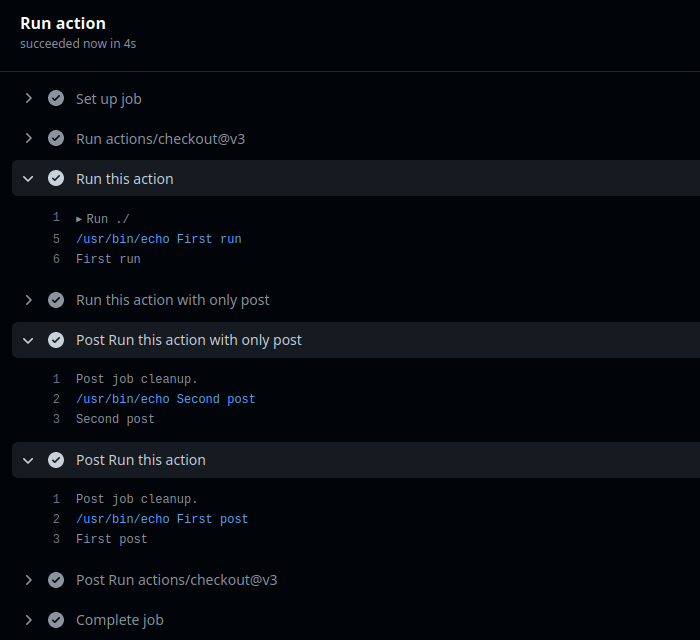
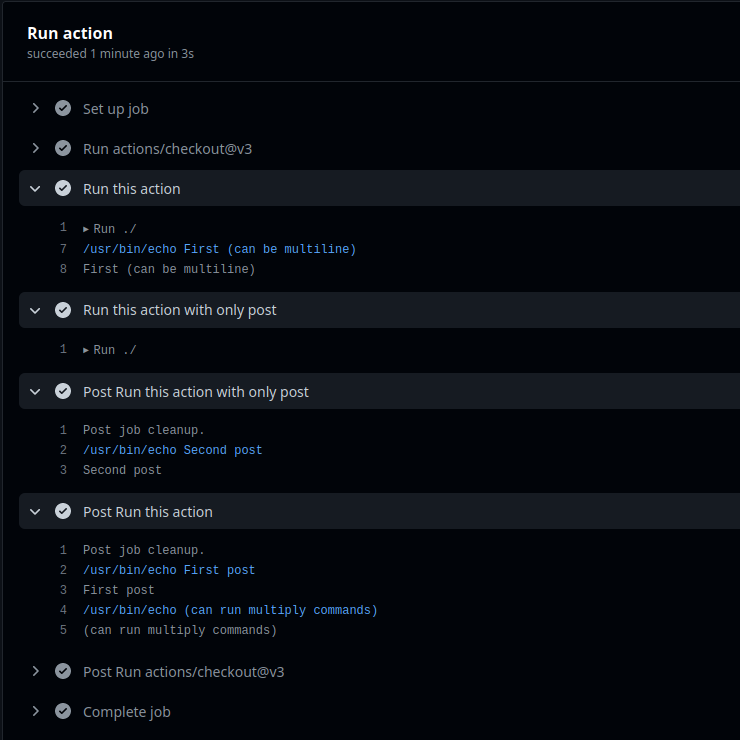
docs: Update docs

Changed region(s): [[0.0, 0.125, 1.0, 1.0], [0.03, 0.0, 0.27, 0.0938], [0.0, 0.0938, 0.03, 0.125]]

diff --git a/README.md b/README.md
@@ -21,13 +21,17 @@ jobs:
       - name: Run this action
         uses: gacts/run-and-post-run@v1
         with:
-          run: echo "First run"
-          post: echo "First post"
+          run: echo "First"
+              "(can be multiline)"
+          post: |
+            echo "First post"
+            echo "(can run multiply commands)"
 
       - name: Run this action with only post
         uses: gacts/run-and-post-run@v1
         with:
           post: echo "Second post"
+
 ```
 
 This above configuration will produce the following:
